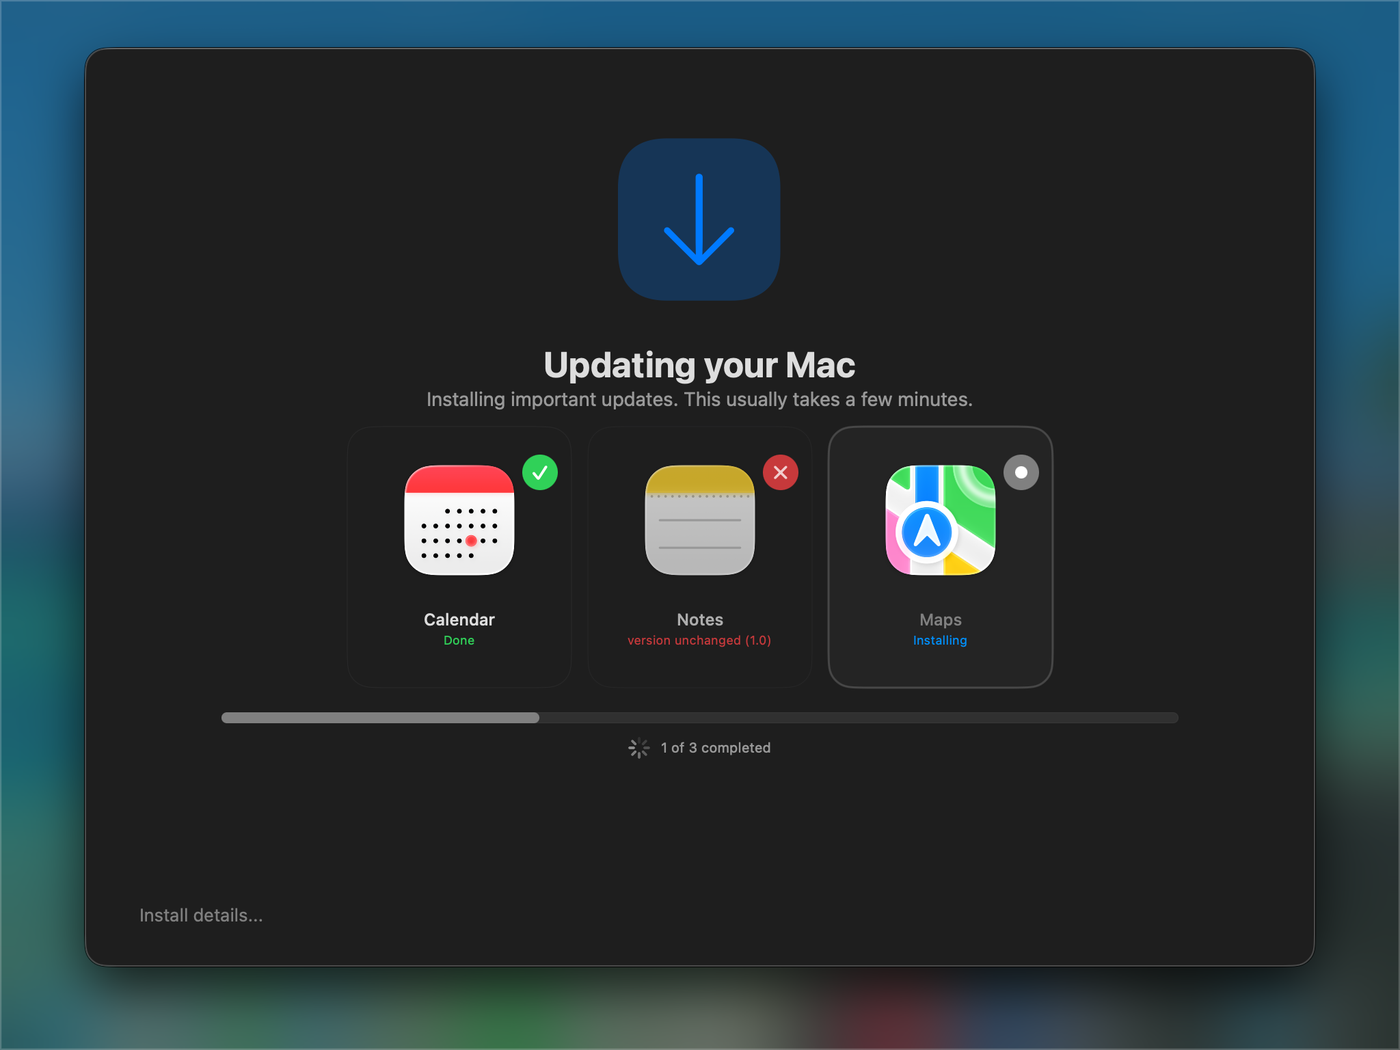
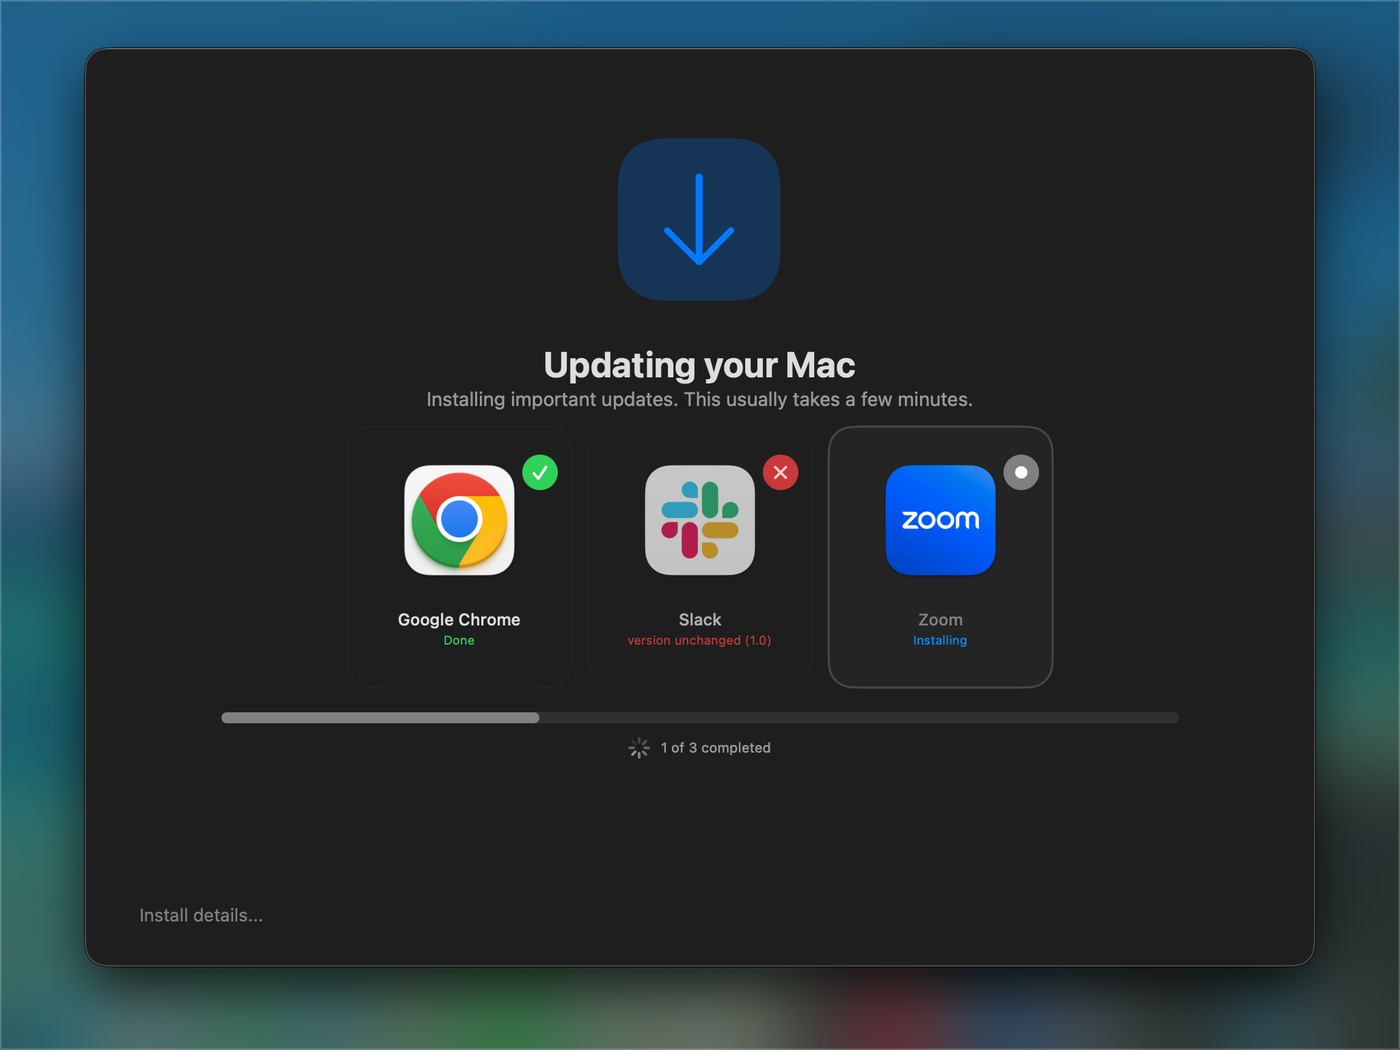
README: example screenshots with third-party apps

diff --git a/README.md b/README.md
@@ -17,7 +17,7 @@ Each app gets a card: a green check when it's updated, a red ✕ with the reason
 |---|---|
 | ![Threshold updating apps, light mode](images/modern-light.png) | ![Threshold updating apps, dark mode](images/modern-dark.png) |
 
-*Example run: Calendar updated, Notes failed (the installer ran but the version didn't change), Maps installing.*
+*Example run with test packages: Google Chrome updated, Slack failed (simulated: the installer ran but the version didn't change), Zoom installing.*
 
 Prefer a plain list? Set **Window style** to Classic in the profile.
 
